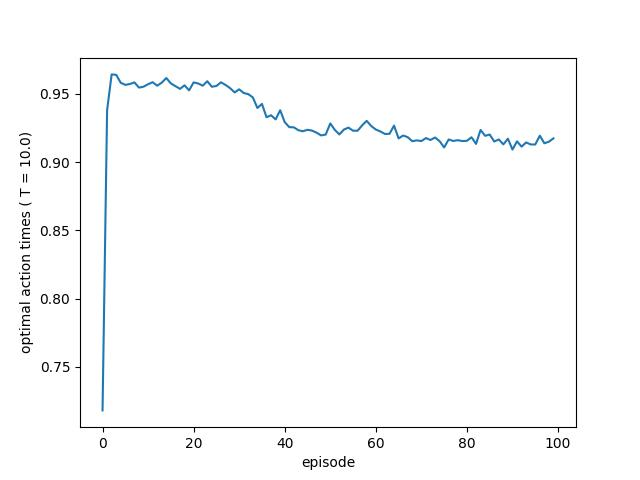
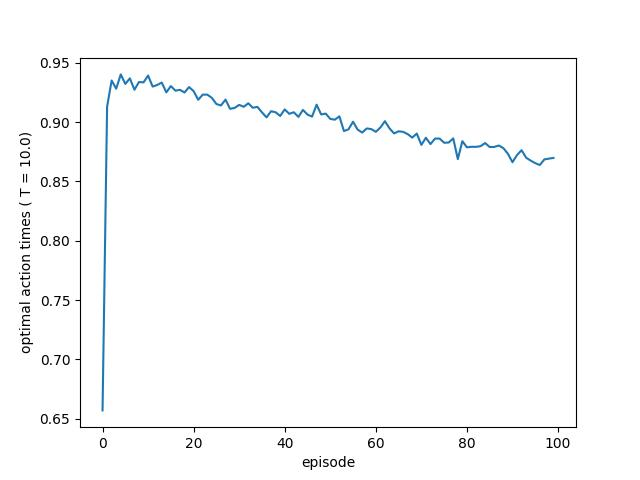
add T=0.5

diff --git a/TaxiProblem_softmax/Const/constant.py b/TaxiProblem_softmax/Const/constant.py
@@ -10,7 +10,7 @@ const.ACT_NUM = 3 #1:通行人探し 2:タクスタ 3:無線(同上)
 const.NB_REPEAT = 50      #実験の繰り返し数
 const.NB_EPISODE = 100    # エピソード数
 const.NB_STEP = 300
-const.TAU = 20.    # 温度
+const.TAU = .5    # 温度
 const.ALPHA = .1      # 学習率
 const.GAMMA = .90     # 割引率
 const.ACTIONS = np.arange(const.ACT_NUM)    #行動集合
